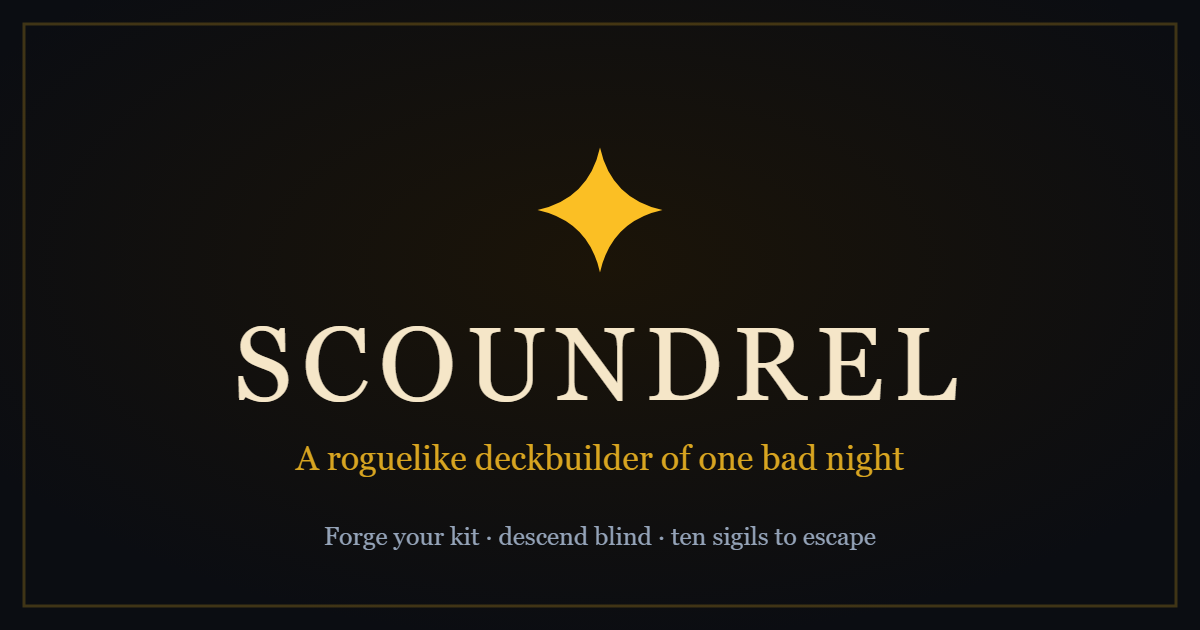
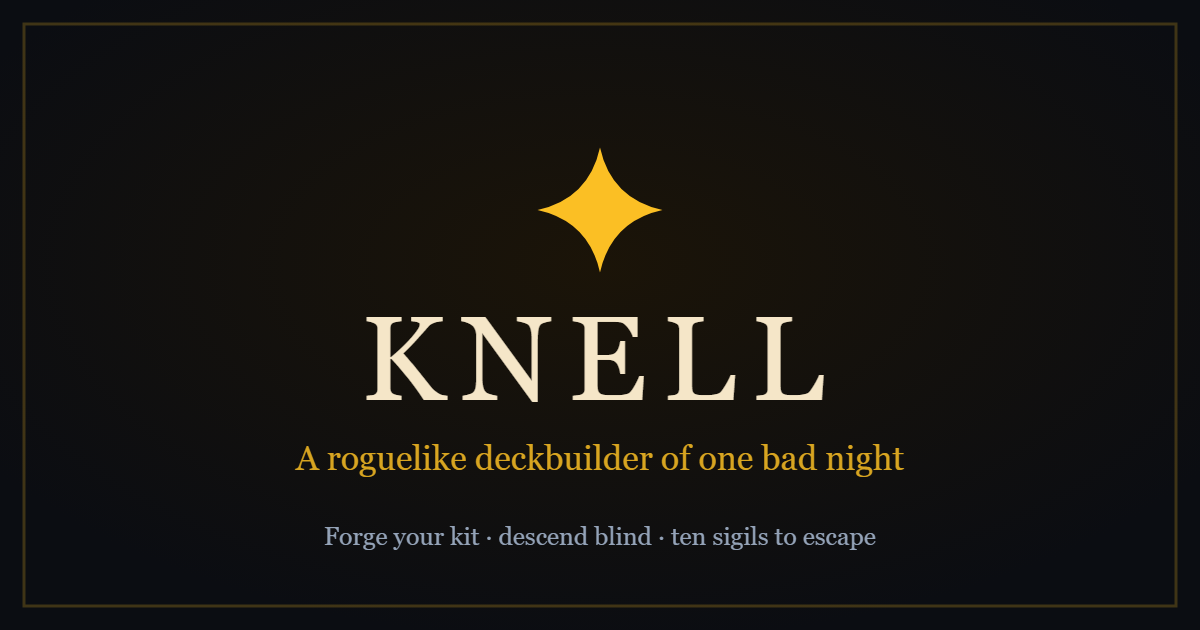
Rename the game from Scoundrel to Knell
Scoundrel is the name of the 2011 card game by Zach Gage and Kurt Bieg that this
is built on, so it was never really ours; there is also now a same-genre roguelite
on Steam using it, plus a crowd of existing web adaptations. The name gave us no
differentiation and some real confusion.

Knell is the tolling of a bell for a death, which is also exactly what the new
gameover cue is. Checked before committing to it: no game is titled just Knell,
only a compound (Knell of St. Godhrkar).

User-facing surface only: the logo in TopBar and HomeView, the document title and
social card, the manifest, the admin heading, the privacy policy, the rules modal
footer, the package name, the favicon label, and the share image, which was
regenerated.

Deliberately NOT renamed, with the reasoning recorded next to SAVE_KEY:

- the scoundrel: localStorage prefix. Every key under it is live data on players'
  devices -- saves, tutorial progress, boon library, feature flags, session token,
  the pending run-mirror queue -- and renaming it would orphan all of it in one
  release for no visible gain.
- accountId values already stored server-side, which key the runs and profiles
  tables.
- the src/games/scoundrel/ module path and _scoundrelFailed in audio.js.
- the boon "Scoundrel's Cloak". A scoundrel is a character archetype, not the
  game's title, and it reads as a nice vestige.

Also settles the line issue 25 opened on: the rules footer claimed "the 44-card
[…]

Changed region(s): [[0.185, 0.4825, 0.8017, 0.6635]]

diff --git a/index.html b/index.html
@@ -4,7 +4,7 @@
     <meta charset="UTF-8" />
     <meta name="viewport" content="width=device-width, initial-scale=1.0, viewport-fit=cover" />
 
-    <title>Scoundrel</title>
+    <title>Knell</title>
     <meta name="description" content="A roguelike deckbuilder of one bad night. Forge your kit, descend blind, and earn ten sigils to escape." />
 
     <!-- Matches --color-dungeon in src/index.css, so the browser chrome does not
@@ -21,7 +21,7 @@
     <link rel="apple-touch-icon" sizes="180x180" href="/apple-touch-icon.png" />
 
     <link rel="manifest" href="/manifest.webmanifest" />
-    <meta name="apple-mobile-web-app-title" content="Scoundrel" />
+    <meta name="apple-mobile-web-app-title" content="Knell" />
     <meta name="apple-mobile-web-app-capable" content="yes" />
     <meta name="apple-mobile-web-app-status-bar-style" content="black-translucent" />
 
@@ -29,17 +29,17 @@
          htmlSiteUrl plugin in vite.config.js; it resolves to the deployment's
          origin, or to '' locally, which leaves these as relative paths. -->
     <meta property="og:type" content="website" />
-    <meta property="og:site_name" content="Scoundrel" />
-    <meta property="og:title" content="Scoundrel — a roguelike deckbuilder of one bad night" />
+    <meta property="og:site_name" content="Knell" />
+    <meta property="og:title" content="Knell — a roguelike deckbuilder of one bad night" />
     <meta property="og:description" content="Forge your kit, descend blind, and earn ten sigils to escape. A card game where the dungeon deals and you decide how much to risk." />
     <meta property="og:url" content="__SITE_URL__/" />
     <meta property="og:image" content="__SITE_URL__/og-image.png" />
     <meta property="og:image:width" content="1200" />
     <meta property="og:image:height" content="630" />
-    <meta property="og:image:alt" content="The Scoundrel sigil above the game's title." />
+    <meta property="og:image:alt" content="The Knell sigil above the game's title." />
 
     <meta name="twitter:card" content="summary_large_image" />
-    <meta name="twitter:title" content="Scoundrel — a roguelike deckbuilder of one bad night" />
+    <meta name="twitter:title" content="Knell — a roguelike deckbuilder of one bad night" />
     <meta name="twitter:description" content="Forge your kit, descend blind, and earn ten sigils to escape." />
     <meta name="twitter:image" content="__SITE_URL__/og-image.png" />
   </head>

diff --git a/src/games/scoundrel/index.jsx b/src/games/scoundrel/index.jsx
@@ -27,6 +27,14 @@ import { settings } from './settings'
 // -- Save / load -------------------------------------------------------
 // Bump SAVE_VERSION whenever the shape of game state in logic.js changes
 // in a way that would break older saves. Old data is discarded silently.
+//
+// The `scoundrel:` prefix is deliberately NOT renamed alongside the game's title
+// (the game is now Knell). It is an internal namespace, and every key under it is
+// live data on players' devices: saves, tutorial progress, the boon library,
+// feature flags, the sign-in token and the pending run-mirror queue. Renaming the
+// prefix would orphan all of it in one release, for no user-visible gain. The
+// same goes for `accountId` values already stored server-side, the
+// `src/games/scoundrel/` module path, and `_scoundrelFailed` in audio.js.
 const SAVE_KEY = 'scoundrel:save'
 const SAVE_VERSION = 1
 const TUTORIAL_KEY = 'scoundrel:tutorialCompleted'

diff --git a/src/games/scoundrel/components/HomeView.jsx b/src/games/scoundrel/components/HomeView.jsx
@@ -1,4 +1,4 @@
-// Full-screen home / main menu. Reached by clicking the SCOUNDREL logo in
+// Full-screen home / main menu. Reached by clicking the KNELL logo in
 // the top bar. It's an overlay rather than a game phase, so the live run is
 // untouched underneath: "Resume" just closes it. Menu entries hand off to the
 // same modals the top bar opens.
@@ -25,7 +25,7 @@ export function HomeView({ open, onResume, onOpenRules, onOpenHistory, onOpenLea
     <div className="fixed inset-0 z-40 bg-dungeon flex flex-col items-center justify-center px-4 overflow-y-auto animate-fade-in">
       <div className="w-full max-w-md py-10 text-center">
         <h1 className="font-display text-rune text-5xl sm:text-6xl tracking-[0.2em]">
-          SCOUNDREL
+          KNELL
         </h1>
         <div className="rune-divider mx-auto max-w-[10rem] mt-4 mb-8 text-[10px]">
           <span>✦</span>

diff --git a/src/PrivacyPolicy.jsx b/src/PrivacyPolicy.jsx
@@ -50,7 +50,7 @@ export default function PrivacyPolicy() {
 
         <Section title="The short version">
           <p>
-            Scoundrel is a small game made by one person. You can play the whole thing
+            Knell is a small game made by one person. You can play the whole thing
             without signing in or giving me anything at all. If you do sign in, it is so
             your runs follow you between devices.
           </p>
@@ -170,7 +170,7 @@ export default function PrivacyPolicy() {
           <p>
             Email{' '}
             <a
-              href={`mailto:${PRIVACY_CONTACT}?subject=Scoundrel%20data%20deletion`}
+              href={`mailto:${PRIVACY_CONTACT}?subject=Knell%20data%20deletion`}
               className="text-rune hover:underline font-mono text-[13px]"
             >
               {PRIVACY_CONTACT}

diff --git a/visual/mobile-responsive-simple.spec.js b/visual/mobile-responsive-simple.spec.js
@@ -18,7 +18,7 @@ test.describe('Mobile Responsive - Basic Tests', () => {
     await expect(page.locator('body')).toBeVisible()
 
     // Should have the title somewhere
-    await expect(page.locator('text=SCOUNDREL')).toBeVisible({ timeout: 10000 })
+    await expect(page.locator('text=KNELL')).toBeVisible({ timeout: 10000 })
   })
 
   test('should load the app on desktop', async ({ page }) => {
@@ -29,7 +29,7 @@ test.describe('Mobile Responsive - Basic Tests', () => {
     await expect(page.locator('body')).toBeVisible()
 
     // Should have the title
-    await expect(page.locator('text=SCOUNDREL')).toBeVisible({ timeout: 10000 })
+    await expect(page.locator('text=KNELL')).toBeVisible({ timeout: 10000 })
   })
 
   test('should have mobile-optimized meta tags', async ({ page }) => {

diff --git a/src/games/scoundrel/components/rules.jsx b/src/games/scoundrel/components/rules.jsx
@@ -117,7 +117,7 @@ export function RulesModal({ open, onClose }) {
         </button>
         <h2 className="font-display text-rune text-2xl mb-1">{title}</h2>
         <p className="text-[12px] text-slate-500 mb-4">
-          Scoundrel, the 44-card roguelike. Press <span className="font-mono text-slate-300">Esc</span> or click outside to close.
+          Knell, a roguelike of one bad night. Press <span className="font-mono text-slate-300">Esc</span> or click outside to close.
         </p>
         <RulesTabBar tab={tab} setTab={setTab} />
         {tab === 'rules' && <RulesContentFull />}

diff --git a/src/admin/AdminDashboard.jsx b/src/admin/AdminDashboard.jsx
@@ -179,7 +179,7 @@ export default function AdminDashboard() {
     <div className="min-h-screen bg-stone-950 text-stone-200">
       <div className="mx-auto max-w-5xl p-6">
         <header className="mb-6 flex items-center justify-between gap-4">
-          <h1 className="text-xl font-semibold">Scoundrel — run analytics</h1>
+          <h1 className="text-xl font-semibold">Knell — run analytics</h1>
           <div className="flex items-center gap-3 text-sm">
             <VersionRange
               range={range}

diff --git a/visual/screens.spec.js b/visual/screens.spec.js
@@ -58,7 +58,7 @@ test('sanctuary', async ({ page }) => {
 test('home-menu', async ({ page }) => {
   await page.goto('/')
   await page.getByRole('button', { name: 'Home menu' }).click()
-  await page.getByRole('heading', { name: 'SCOUNDREL' }).waitFor()
+  await page.getByRole('heading', { name: 'KNELL' }).waitFor()
   await settle(page)
   await page.screenshot({ path: shot('home-menu'), fullPage: true })
 })

diff --git a/src/games/scoundrel/components/TopBar.jsx b/src/games/scoundrel/components/TopBar.jsx
@@ -14,7 +14,7 @@ export function TopBar({ game, user, onOpenRules, onRetire, onOpenCredits, onOpe
             title="Home menu"
             className="font-display text-rune text-sm sm:text-base tracking-[0.25em] hover:text-amber-300 transition"
           >
-            SCOUNDREL
+            KNELL
           </button>
         </div>
         <div className="flex items-center gap-1.5 sm:gap-2 shrink-0">

diff --git a/visual/head-and-manifest.spec.js b/visual/head-and-manifest.spec.js
@@ -20,7 +20,7 @@ async function expectResolves(request, url) {
 test.describe('document head', () => {
   test('has a title and a non-empty description', async ({ page }) => {
     await page.goto('/')
-    await expect(page).toHaveTitle(/Scoundrel/)
+    await expect(page).toHaveTitle(/Knell/)
 
     const description = await content(page, 'meta[name="description"]')
     expect(description).toBeTruthy()

diff --git a/docs/issues/README.md b/docs/issues/README.md
@@ -14,6 +14,7 @@ Baseline: `npm run lint` clean, `npm run build` clean. Test suite as it stands:
 | `test/pseudonym.test.js` | vitest | 6 pass |
 | `visual/privacy.spec.js` | dev | 9 pass |
 | `visual/head-and-manifest.spec.js` | dev | 11 pass |
+| `visual/audio-assets.spec.js` | dev | 3 pass |
 | `screens.spec.js` | dev | 6 pass (1 known skip — issue 12) |
 | `mobile-responsive-simple.spec.js` | dev | 12 pass |
 | `tutorial-walkthrough.spec.js` | dev | 1 pass |
@@ -21,7 +22,7 @@ Baseline: `npm run lint` clean, `npm run build` clean. Test suite as it stands:
 | `error-boundary.prod.spec.js` | prod | 8 pass |
 | `mobile-responsive.spec.js` | dev | 27 pass |
 
-**Full suite: 77 unit + 80 e2e passed, 1 skipped (`card-library`, issue 12).**
+**Full suite: 77 unit + 83 e2e passed, 1 skipped (`card-library`, issue 12).**
 
 ## Testing convention
 
@@ -74,8 +75,27 @@ gated), **26** (suite green and runnable), **02** (error boundary), **07** (writ
 endpoints hardened; vitest added, which partly advances 15), **06** (privacy
 policy; PostHog no longer receives PII), **04** (icons, manifest, social cards).
 
-**All P0 blockers are closed except issue 03** (the missing victory/gameover
-music), which needs two audio tracks sourced — a human decision, not a code one.
+**All P0 blockers are closed.**
+
+## The game is now called Knell
+
+Renamed from Scoundrel — the old name belonged to the 2011 card game this is built
+on, and there is now a same-genre Steam title using it too. "Knell" is the tolling
+of a bell for a death, which is also what the new `gameover.mp3` is.
+
+The rename touched **user-facing surface only**. Deliberately left alone, because
+they are live data or internal paths and renaming them would orphan every player's
+save for no visible gain:
+
+- the `scoundrel:` localStorage prefix (saves, tutorial flag, boon library, flags,
+  session token, pending run queue) — see the comment at the top of
+  `src/games/scoundrel/index.jsx`
+- `accountId` values already stored server-side
+- the `src/games/scoundrel/` module path, and `_scoundrelFailed` in `audio.js`
+- the boon **"Scoundrel's Cloak"** — a character archetype, not the title
+
+**Still to do by hand:** rename the GitHub repo, then update `REPO` in
+`src/VersionBadge.jsx`, which still links to `JosephParis/scoundrel`.
 
 **Issue 13 has grown into the real pre-launch gate.** Everything that cannot be
 tested locally has been pushed onto its checklist, because there is no `/api` in
@@ -113,7 +133,7 @@ shipped to users on `0.4` yet, so sharing is usually fine.
 |---|---|---|---|---|
 | [01](01-gate-dev-tools.md) | Gate Dev tools behind a non-obvious flag | launch-blocker | S | **done** |
 | [02](02-error-boundary-and-recovery.md) | Add an error boundary and an always-available save reset | launch-blocker | M | **done** |
-| [03](03-missing-victory-gameover-music.md) | `victory.mp3` / `gameover.mp3` registered but missing | content | S | open |
+| [03](03-missing-victory-gameover-music.md) | `victory.mp3` / `gameover.mp3` registered but missing | content | S | **done** |
 | [04](04-html-head-favicon-manifest-meta.md) | No favicon, manifest, description, or OG tags | launch-blocker | M | **done** |
 | [05](05-uncommitted-wip.md) | Commit or shelve the 4-file uncommitted tree | process | S | **done** |
 | [06](06-privacy-policy.md) | No privacy policy despite Google sign-in + PostHog `identify` | legal | M | **done** |

diff --git a/docs/issues/25-rules-copy-review.md b/docs/issues/25-rules-copy-review.md
@@ -7,6 +7,23 @@ effort: S
 status: open
 ---
 
+## Partly resolved by the rename
+
+The specific line this issue opened on is fixed. `rules.jsx:120` now reads
+**"Knell, a roguelike of one bad night."** — the game was renamed from Scoundrel
+to Knell, which forced the question and settled it: the "44-card" claim is gone,
+and the lineage nod moved off the tagline.
+
+**The rest of this issue still stands.** The broader audit of `rules.jsx` for
+pre-rework framing — whole-deck editing, `Strike`, any implication that the next
+theme is known before descending — was not done, and should still happen
+alongside issue 12 when the parked tabs come back.
+
+Note `deck.js:32`'s "base 44-card Scoundrel deck" comment is **correct** and was
+deliberately left: it describes the source deck this game descends from, which is
+still 44 cards internally. Likewise the boon **"Scoundrel's Cloak"** was kept — a
+scoundrel is a character archetype, not the game's title.
+
 ## Problem
 
 `src/games/scoundrel/components/rules.jsx:120` describes the game to the player
